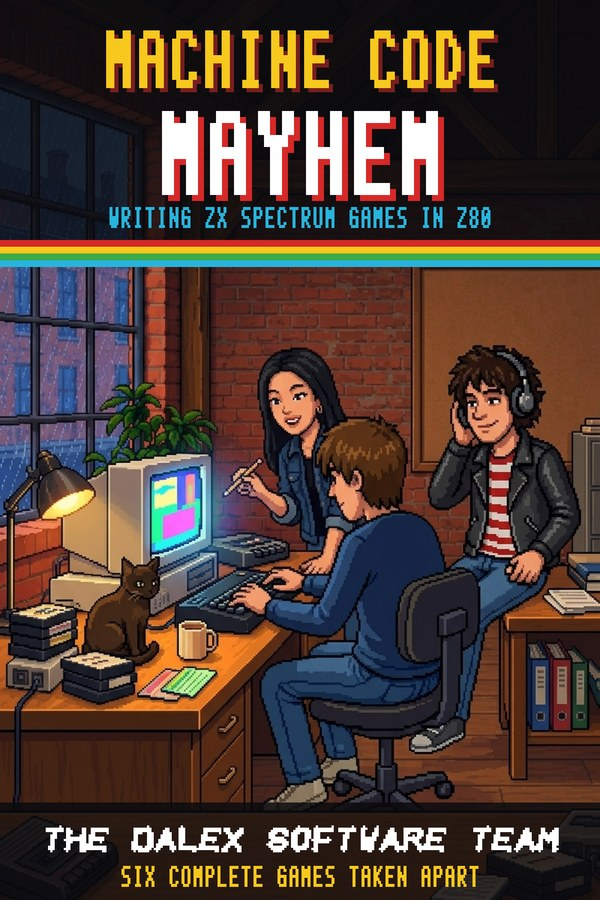
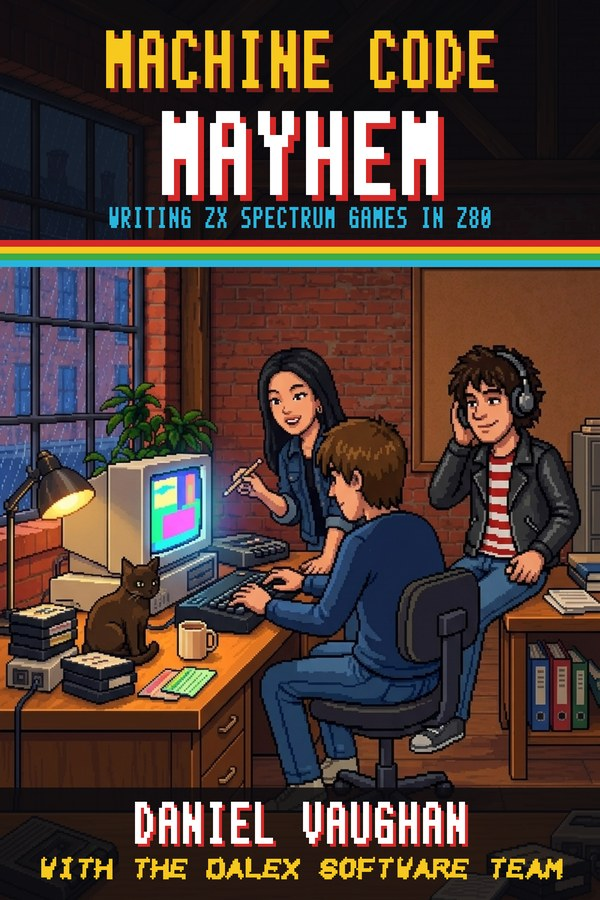
Book page: Daniel Vaughan named as author on the cover and page (book ADR-0013)
Claude-Session: https://claude.ai/code/session_01VgY4oaqttCqHueztnqB29v

Changed region(s): [[0.0, 0.8711, 1.0, 0.9956]]

diff --git a/content/book.html b/content/book.html
@@ -1,5 +1,5 @@
 <h1>Machine Code Mayhem</h1>
-<p class="lede">The book of how we make our games. <strong>Coming soon on Leanpub.</strong></p>
+<p class="lede">The book of how we make our games, by Daniel Vaughan with the Dalex Software team. <strong>Coming soon on Leanpub.</strong></p>
 <!-- cover -->
 <p>Everybody asks how a game fits into 48K. So the whole studio sat down and wrote it out: <em>Machine Code Mayhem: Writing ZX Spectrum Games in Z80 Assembly, from Six Complete Games</em>. It takes our six games apart, one idea at a time, until you can change them, rebuild them and start one of your own.</p>
 <p>It is written for programmers who know a modern language, Java or Python or something like them, and have never written a line of assembly. Every routine in it is copied from a game that builds, loads from tape and plays, and every chapter ends with things to try in an emulator.</p>

diff --git a/build.py b/build.py
@@ -531,7 +531,7 @@ def book(site, root_dir: Path, games):
     frag = re.sub(r'<a href="\.\./games/([a-z0-9-]+)/">(.*?)</a>',
                   lambda m: m.group(0) if m.group(1) in shown else m.group(2), frag)
     cover = f'''<figure class="book-cover">
-  <img src="{root}{BOOK_COVER}" width="300" height="450" alt="Cover of Machine Code Mayhem: in a pixel-art 1987 studio at night, Gareth types at a small black computer while Hyun-joo points at the screen, Dez listens on headphones and Percy the cat sits by a stack of cassettes. The cover credits the Dalex Software team.">
+  <img src="{root}{BOOK_COVER}" width="300" height="450" alt="Cover of Machine Code Mayhem: in a pixel-art 1987 studio at night, Gareth types at a small black computer while Hyun-joo points at the screen, Dez listens on headphones and Percy the cat sits by a stack of cassettes. By Daniel Vaughan, with the Dalex Software team.">
   <figcaption>Coming soon on Leanpub.</figcaption>
 </figure>'''
     body = frag.replace('<!-- cover -->', cover)

diff --git a/docs/decisions.md b/docs/decisions.md
@@ -334,7 +334,8 @@ The owner asked for a page promoting the studio's book, *Machine Code Mayhem: Wr
 Assembly, from Six Complete Games*, as upcoming. It is not on Leanpub yet, so the page says "Coming soon on
 Leanpub" and links nowhere to buy it.
 
-- **In-world, like the Studio page.** The book is credited to the Dalex Software team (book repository ADR-0012):
+- **Author.** Daniel Vaughan is the author on the cover and the page, "with the Dalex Software team" (book ADR-0013).
+- **In-world, like the Studio page.** The chapters are credited to the Dalex Software team (book repository ADR-0012):
   the page lists each chapter with the person who wrote it, and the small print says the studio is fictional and
   the book is written by Daniel Vaughan with AI agents.
 - **Cover.** `static/assets/book/machine-code-mayhem.jpg` (600 x 900), from the book repository's
